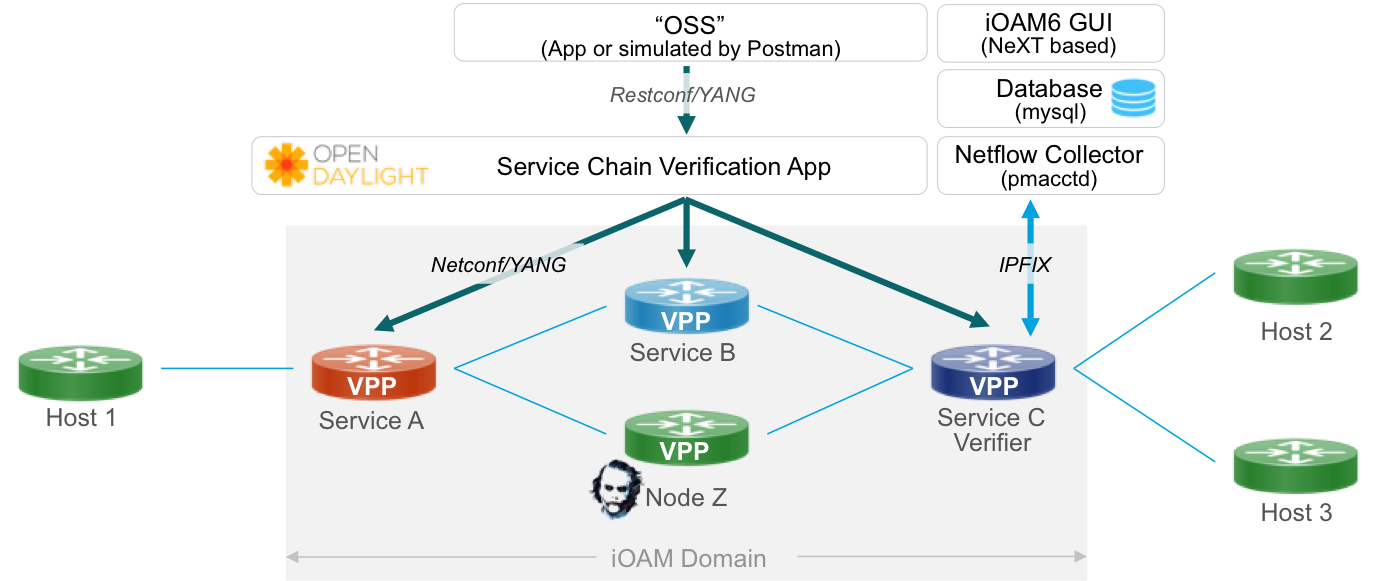
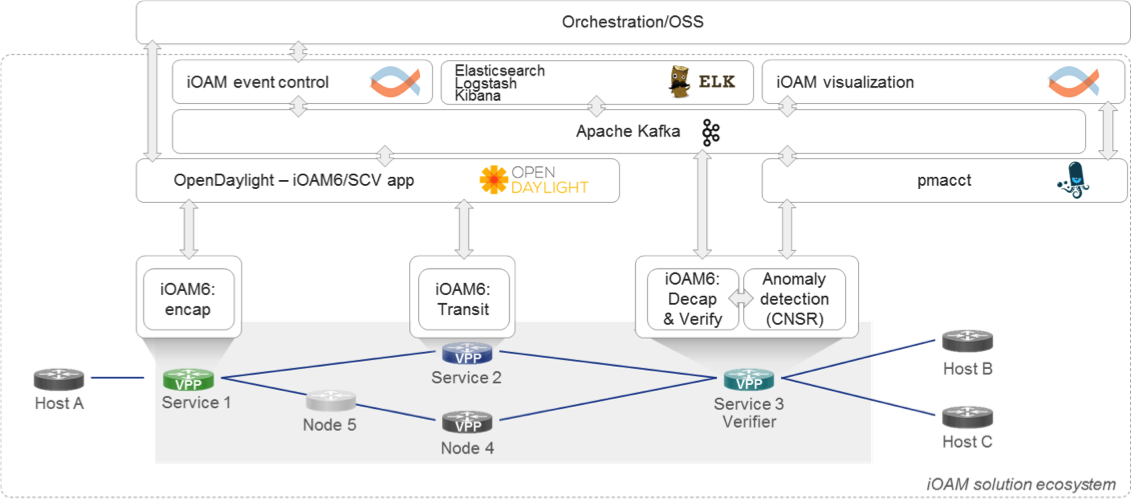
updating images and adding ecosystem

diff --git a/README.md b/README.md
@@ -97,7 +97,7 @@ route-record option defined in [RFC0791] can be considered an in-band OAM mechan
    In-band mechanisms also don't suffer from implementations, where
    probe traffic is handled differently (and potentially forwarded
    differently) by a router than regular data traffic.
-## ![](/images/ioam-telemetry.png)
+
    
 ## Overlay and underlay correlation
 
@@ -252,6 +252,16 @@ The figure below shows an example. Routers R1, R2, R3, R4 form a domain within w
 ## ![](/images/ioam-domain-trace.png)   
 
 # iOAM solution ecosystem
+
+Below is an example iOAM solution ecosystem with IPv6 transport:
+
+- Forwaring plane: iOAM feature to insert, updata and remove metadata from the packets is implemented in VPP forwarding plane
+- Controller: Opendaylight controller and iOAM applications control and orchestrate iOAM processing and configuration 
+- Collectors: iOAM metadata is exported as netflow records and json objects as needed. This is collected using pmacctd netflow collector or published into message bus such as Apache Kafka
+- Analyzers: iOAM metadata collected is analyzed for anomalies using offbox or on-box applications
+- Visualization: iOAM metadata thus collected and insights derived from its analysis is used to visualize network state
+- Feedback loop: Insights derived from iOAM data is used to trigger more data collection or take corrective action via controller
+
 
 ## ![](/images/ioam-ecosystem.png)
  
